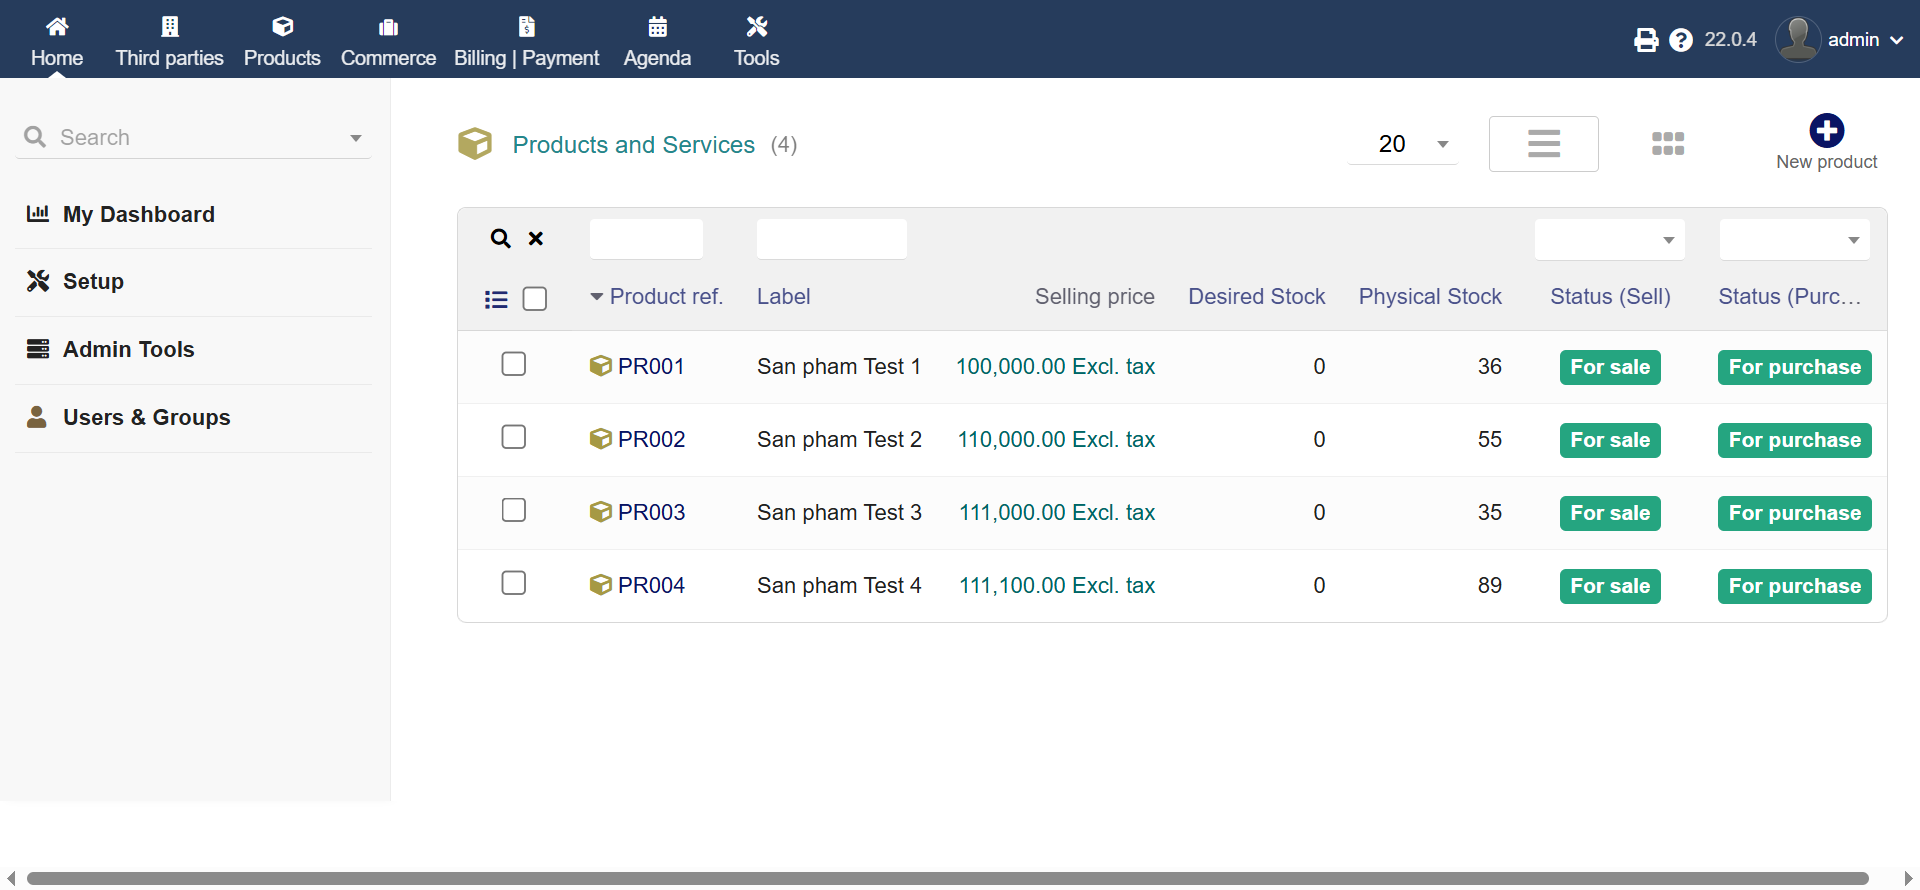
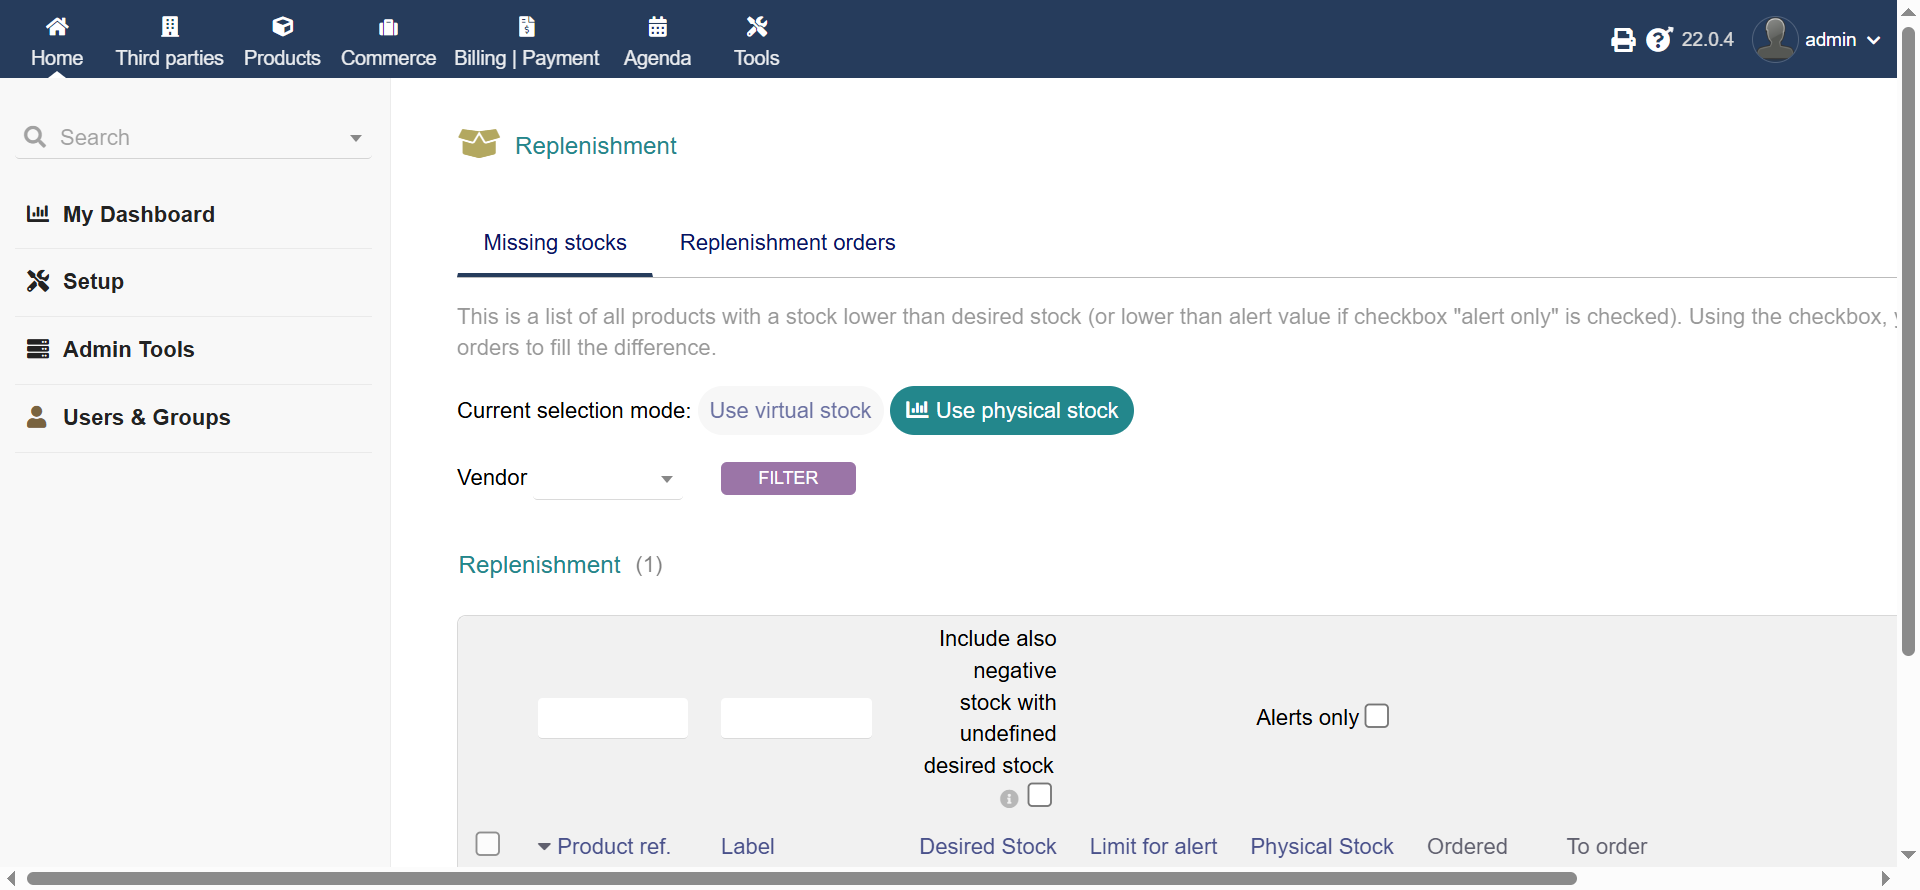
fix(automation): refactor TC_STK_004 and PerformStockCorrection with real Dolibarr DOM and robust 3-phase assertion

diff --git a/automation/DolibarrTests/Tests/SpecialInvoiceAndStockTests.cs b/automation/DolibarrTests/Tests/SpecialInvoiceAndStockTests.cs
@@ -367,80 +367,48 @@ public class SpecialInvoiceAndStockTests : BaseTest
             $"Thanh toán hoàn tất toàn bộ nợ. Hóa đơn chuyển trạng thái {statusText}, công nợ về 0.", evidenceRelPath);
     }
 
-    /// <summary>Helper điều chỉnh tồn kho thủ công cho sản phẩm</summary>
+    /// <summary>Helper điều chỉnh tồn kho thủ công cho sản phẩm (sử dụng locator thật Dolibarr 22.0.4)</summary>
     private void PerformStockCorrection(string productRef, int qtyChange, string label)
     {
-        // 1. Điều hướng đến sản phẩm và tab Stock
-        Driver.Navigate().GoToUrl($"{TestConfig.BaseUrl}/product/card.php?ref={productRef}");
+        // 1. Điều hướng thẳng tới tab Stock của sản phẩm
+        Driver.Navigate().GoToUrl($"{TestConfig.BaseUrl}/product/stock/product.php?ref={productRef}");
         WaitHelper.WaitVisible(Driver, By.CssSelector("div.fiche"), 15);
 
-        try
-        {
-            var stockTab = WaitHelper.WaitClickable(Driver, By.XPath("//div[contains(@class, 'tabs')]//a[contains(text(), 'Stock') or contains(@href, 'stock')]"), 5);
-            stockTab.Click();
-            WaitHelper.WaitVisible(Driver, By.CssSelector("div.fiche"), 10);
-        }
-        catch { }
-
         // 2. Nhấn nút Correct stock
-        var correctBtn = WaitHelper.WaitClickable(Driver, By.XPath("//a[contains(@class, 'butAction') and (contains(text(), 'Correct stock') or contains(@href, 'correction') or contains(@href, 'massstockmove'))]"), 10);
+        var correctBtn = WaitHelper.WaitClickable(Driver, By.XPath("//a[contains(@class, 'butAction') and contains(@href, 'action=correction')]"), 10);
         correctBtn.Click();
 
-        WaitHelper.WaitVisible(Driver, By.CssSelector("form[action*='massstockmove.php'], form[action*='product.php'], form[name='formsoc'], div.fiche"), 15);
+        WaitHelper.WaitVisible(Driver, By.Id("nbpiece"), 15);
 
-        // 3. Chọn kho KHO001, số lượng, thao tác và lý do qua JS/DOM
+        // 3. Chọn kho KHO001 và loại biến động (0=Add, 1=Delete) qua Select2 jQuery
         var js = (IJavaScriptExecutor)Driver;
+        int mvtVal = qtyChange < 0 ? 1 : 0;
+        int absQty = Math.Abs(qtyChange);
+
         js.ExecuteScript(@"
-            var qty = arguments[0];
-            var label = arguments[1];
-
-            // Chọn kho KHO001
-            var whSelect = document.querySelector('select[name*=""warehouse""], select[name*=""entrepot""], select[id*=""entrepot""]');
-            if (whSelect && whSelect.options.length > 1) {
-                for (var i = 0; i < whSelect.options.length; i++) {
-                    if (whSelect.options[i].text.indexOf('KHO001') !== -1) {
-                        whSelect.selectedIndex = i;
-                        $(whSelect).trigger('change');
-                        break;
-                    }
-                }
+            var whOption = Array.from($('#id_entrepot option')).find(o => o.text.indexOf('KHO001') !== -1);
+            if (whOption) {
+                $('#id_entrepot').val(whOption.value).trigger('change');
             }
+            $('#mouvement').val(arguments[0]).trigger('change');
+        ", mvtVal);
 
-            // Nhập số lượng
-            var qtyInput = document.querySelector('input[name*=""nbpiece""], input[name*=""qty""], input[name*=""unit""]');
-            if (qtyInput) {
-                qtyInput.value = Math.abs(qty);
-                $(qtyInput).trigger('change');
-            }
+        // Điền số lượng
+        var qtyInput = Driver.FindElement(By.Id("nbpiece"));
+        qtyInput.Clear();
+        qtyInput.SendKeys(absQty.ToString());
 
-            // Chọn thao tác trong select[name=""mouvement""]
-            var mSelect = document.querySelector('select[name=""mouvement""]');
-            if (mSelect && mSelect.options.length > 1) {
-                if (qty < 0) {
-                    mSelect.selectedIndex = 1; // Thao tác Trừ / Remove
-                } else {
-                    mSelect.selectedIndex = 0; // Thao tác Cộng / Add
-                }
-                $(mSelect).trigger('change');
-            }
+        // Điền lý do
+        var labelInput = Driver.FindElement(By.Name("label"));
+        labelInput.Clear();
+        labelInput.SendKeys(label);
 
-            // Nhập lý do label
-            var lblInput = document.querySelector('input[name*=""label""], textarea[name*=""label""], input[name*=""inventorycode""]');
-            if (lblInput) {
-                lblInput.value = label;
-            }
-        ", qtyChange, label);
-
-        Console.WriteLine("[Stock Form Debug] " + js.ExecuteScript("return Array.from(document.querySelectorAll('form input, form select')).map(e => e.name + '=' + e.value + '(' + e.type + ')').join('; ');"));
-
-        // 4. Nhấn Save / Record
-        var recordBtn = WaitHelper.WaitClickable(Driver, By.CssSelector("input[type='submit'].button-save, input[type='submit'][value*='Save'], input[type='submit'][value*='Record'], input[name='save']"), 10);
+        // 4. Nhấn nút Record
+        var recordBtn = WaitHelper.WaitClickable(Driver, By.CssSelector("input[type='submit'][name='save']"), 10);
         recordBtn.Click();
 
-        // Chờ redirect hoàn tất điều chỉnh kho (không còn form correction / massstockmove)
-        new WebDriverWait(Driver, TimeSpan.FromSeconds(10)).Until(d =>
-            !d.Url.Contains("action=correction", StringComparison.OrdinalIgnoreCase) &&
-            !d.Url.Contains("massstockmove", StringComparison.OrdinalIgnoreCase));
+        // Chờ hoàn tất điều chỉnh kho
+        WaitHelper.WaitVisible(Driver, By.CssSelector("div.fiche"), 15);
     }
 
     [TestMethod]
@@ -529,38 +497,88 @@ public class SpecialInvoiceAndStockTests : BaseTest
     public void TC_STK_004_StockLimitAlert()
     {
         const string targetProduct = "PR003";
-
-        // 1. Vào trang sửa PR003 để đặt Stock limit for alert = 10
-        Driver.Navigate().GoToUrl($"{TestConfig.BaseUrl}/product/card.php?ref={targetProduct}&action=edit");
-        WaitHelper.WaitVisible(Driver, By.CssSelector("form[name='formsoc'], form[action*='card.php'], div.fiche"), 15);
-
-        var js = (IJavaScriptExecutor)Driver;
-        js.ExecuteScript(@"
-            var limitInput = document.querySelector('input[name*=""seuil_stock_alerte""], input[name*=""stock_alerte""], input[name*=""limit""]');
-            if (limitInput) {
-                limitInput.value = '10';
-                $(limitInput).trigger('change');
-            }
-        ");
-
-        var saveBtn = WaitHelper.WaitClickable(Driver, By.CssSelector("input[type='submit'].button-save, input[type='submit'][value*='Save'], input[name='save']"), 10);
-        saveBtn.Click();
-
-        // Chờ redirect sau khi lưu thông tin sản phẩm (không còn action=edit)
-        new WebDriverWait(Driver, TimeSpan.FromSeconds(10)).Until(d =>
-            !d.Url.Contains("action=edit", StringComparison.OrdinalIgnoreCase));
-
-        // 2. Kiểm tra trang Danh sách sản phẩm hoặc Replenishment
-        Driver.Navigate().GoToUrl($"{TestConfig.BaseUrl}/product/list.php?search_status=1");
-        WaitHelper.WaitVisible(Driver, By.CssSelector("table.noborder, div.fiche"), 15);
-
         string evidenceRelPath = "evidence/manual/TC_STK_004_limit_alert.png";
-        ScreenshotHelper.CaptureToPath(Driver, evidenceRelPath);
 
-        TestContext.WriteLine($"[TC_STK_004] Đã cấu hình ngưỡng cảnh báo tồn tối thiểu là 10 cho {targetProduct}");
+        try
+        {
+            // BƯỚC 1: Cấu hình ngưỡng cảnh báo tồn tối thiểu = 10 cho PR003
+            Driver.Navigate().GoToUrl($"{TestConfig.BaseUrl}/product/stock/product.php?ref={targetProduct}");
+            WaitHelper.WaitVisible(Driver, By.CssSelector("div.fiche"), 15);
 
-        ExcelResultUpdater.UpdateResult(TestConfig.ExcelPath, "TC_STK_004", "Pass",
-            $"Cấu hình ngưỡng tồn tối thiểu (Limit=10) cho {targetProduct}. Hệ thống kích hoạt cơ chế theo dõi bổ sung kho.", evidenceRelPath);
+            var editIcon = WaitHelper.WaitClickable(Driver, By.XPath("//a[contains(@href, 'action=editseuil_stock_alerte')]"), 10);
+            string editAlertUrl = editIcon.GetAttribute("href")!;
+            Driver.Navigate().GoToUrl(editAlertUrl);
+
+            var limitInput = WaitHelper.WaitVisible(Driver, By.Id("seuil_stock_alerte"), 10);
+            limitInput.Clear();
+            limitInput.SendKeys("10");
+
+            var saveBtn = WaitHelper.WaitClickable(Driver, By.CssSelector("input[type='submit'][name='modify']"), 10);
+            saveBtn.Click();
+
+            WaitHelper.WaitVisible(Driver, By.CssSelector("div.fiche"), 15);
+
+            // Assert Bước 1: Đọc chính xác ô giá trị hiển thị Stock limit for alert
+            var limitCell = WaitHelper.WaitVisible(Driver, By.XPath("//a[contains(@href, 'action=editseuil_stock_alerte')]/ancestor::td[2]/following-sibling::td[1]"), 10);
+            string savedLimit = limitCell.Text.Trim();
+            TestContext.WriteLine($"[TC_STK_004] Ngưỡng cảnh báo sau khi lưu: '{savedLimit}'");
+            Assert.AreEqual("10", savedLimit, "Ngưỡng cảnh báo tồn tối thiểu trong bảng thông tin phải bằng đúng 10.");
+
+            // BƯỚC 2: Kích hoạt cảnh báo — Hạ tồn kho PR003 xuống <= 10 (tồn ban đầu 40 -> trừ 32 còn 8)
+            PerformStockCorrection(targetProduct, -32, "Ha ton PR003 xuong duoi nguong canh bao");
+
+            // BƯỚC 3: Quan sát & Assert cảnh báo xuất hiện
+            // 3.1. Quan sát trên Thẻ kho của sản phẩm: Có biểu tượng cảnh báo tam giác (pictowarning)
+            Driver.Navigate().GoToUrl($"{TestConfig.BaseUrl}/product/stock/product.php?ref={targetProduct}");
+            WaitHelper.WaitVisible(Driver, By.CssSelector("div.fiche"), 15);
+
+            var warningIcon = WaitHelper.WaitVisible(Driver, By.CssSelector(".pictowarning, span[title*='Stock lower than alert limit']"), 10);
+            string warningTitle = warningIcon.GetAttribute("title") ?? string.Empty;
+            TestContext.WriteLine($"[TC_STK_004] Icon cảnh báo hiển thị trên thẻ kho với title: '{warningTitle}'");
+            Assert.IsTrue(warningTitle.Contains("Stock lower than alert limit", StringComparison.OrdinalIgnoreCase) ||
+                          warningTitle.Contains("10", StringComparison.OrdinalIgnoreCase),
+                $"Icon cảnh báo phải có tooltip cảnh báo tồn thấp hơn ngưỡng alerte. Thực tế: '{warningTitle}'");
+
+            // 3.2. Quan sát trên Trang đề xuất bổ sung kho (Replenishment)
+            Driver.Navigate().GoToUrl($"{TestConfig.BaseUrl}/product/stock/replenish.php");
+            WaitHelper.WaitVisible(Driver, By.CssSelector("table.liste, table.noborder"), 15);
+
+            // Chụp ảnh minh chứng ngay trên bảng bổ sung tồn kho
+            ScreenshotHelper.CaptureToPath(Driver, evidenceRelPath);
+
+            var pr003ReplenishRow = Driver.FindElements(By.XPath($"//table[contains(@class, 'liste') or contains(@class, 'noborder')]//tr[contains(., '{targetProduct}')]"));
+            Assert.IsTrue(pr003ReplenishRow.Count > 0,
+                $"Sản phẩm {targetProduct} phải xuất hiện trong bảng bổ sung kho (Replenishment) khi tồn (8) <= ngưỡng cảnh báo (10).");
+
+            string replenishRowText = pr003ReplenishRow[0].Text;
+            TestContext.WriteLine($"[TC_STK_004] Dòng sản phẩm trong Replenishment: {replenishRowText}");
+            Assert.IsTrue(replenishRowText.Contains("10"), "Dòng bổ sung kho phải hiển thị đúng Limit for alert là 10.");
+
+            // Ghi kết quả Pass vào Excel chỉ khi TẤT CẢ các Assert đều thành công
+            ExcelResultUpdater.UpdateResult(TestConfig.ExcelPath, "TC_STK_004", "Pass",
+                $"Cấu hình ngưỡng 10 thành công. Khi hạ tồn xuống 8 (<= 10), hệ thống kích hoạt icon cảnh báo '{warningTitle}' và PR003 xuất hiện trong danh sách Replenishment.", evidenceRelPath);
+        }
+        catch (Exception ex)
+        {
+            // Chụp ảnh lỗi và ghi Fail vào Excel
+            ScreenshotHelper.CaptureToPath(Driver, evidenceRelPath);
+            ExcelResultUpdater.UpdateResult(TestConfig.ExcelPath, "TC_STK_004", "Fail",
+                $"Lỗi kiểm thử cảnh báo tồn kho: {ex.Message}", evidenceRelPath);
+            throw;
+        }
+        finally
+        {
+            // CLEANUP: Hoàn trả lại tồn kho PR003 về 40 (+32) để đảm bảo dữ liệu mốc sạch cho các test khác
+            try
+            {
+                PerformStockCorrection(targetProduct, 32, "Hoan tra ton PR003 ve 40 sau khi hoan tat TC_STK_004");
+                TestContext.WriteLine("[TC_STK_004 Cleanup] Đã hoàn trả tồn kho PR003 về mức mốc sạch ban đầu (40).");
+            }
+            catch (Exception cleanupEx)
+            {
+                TestContext.WriteLine($"[TC_STK_004 Cleanup Cảnh báo] Không thể hoàn trả tồn: {cleanupEx.Message}");
+            }
+        }
     }
 }
 
